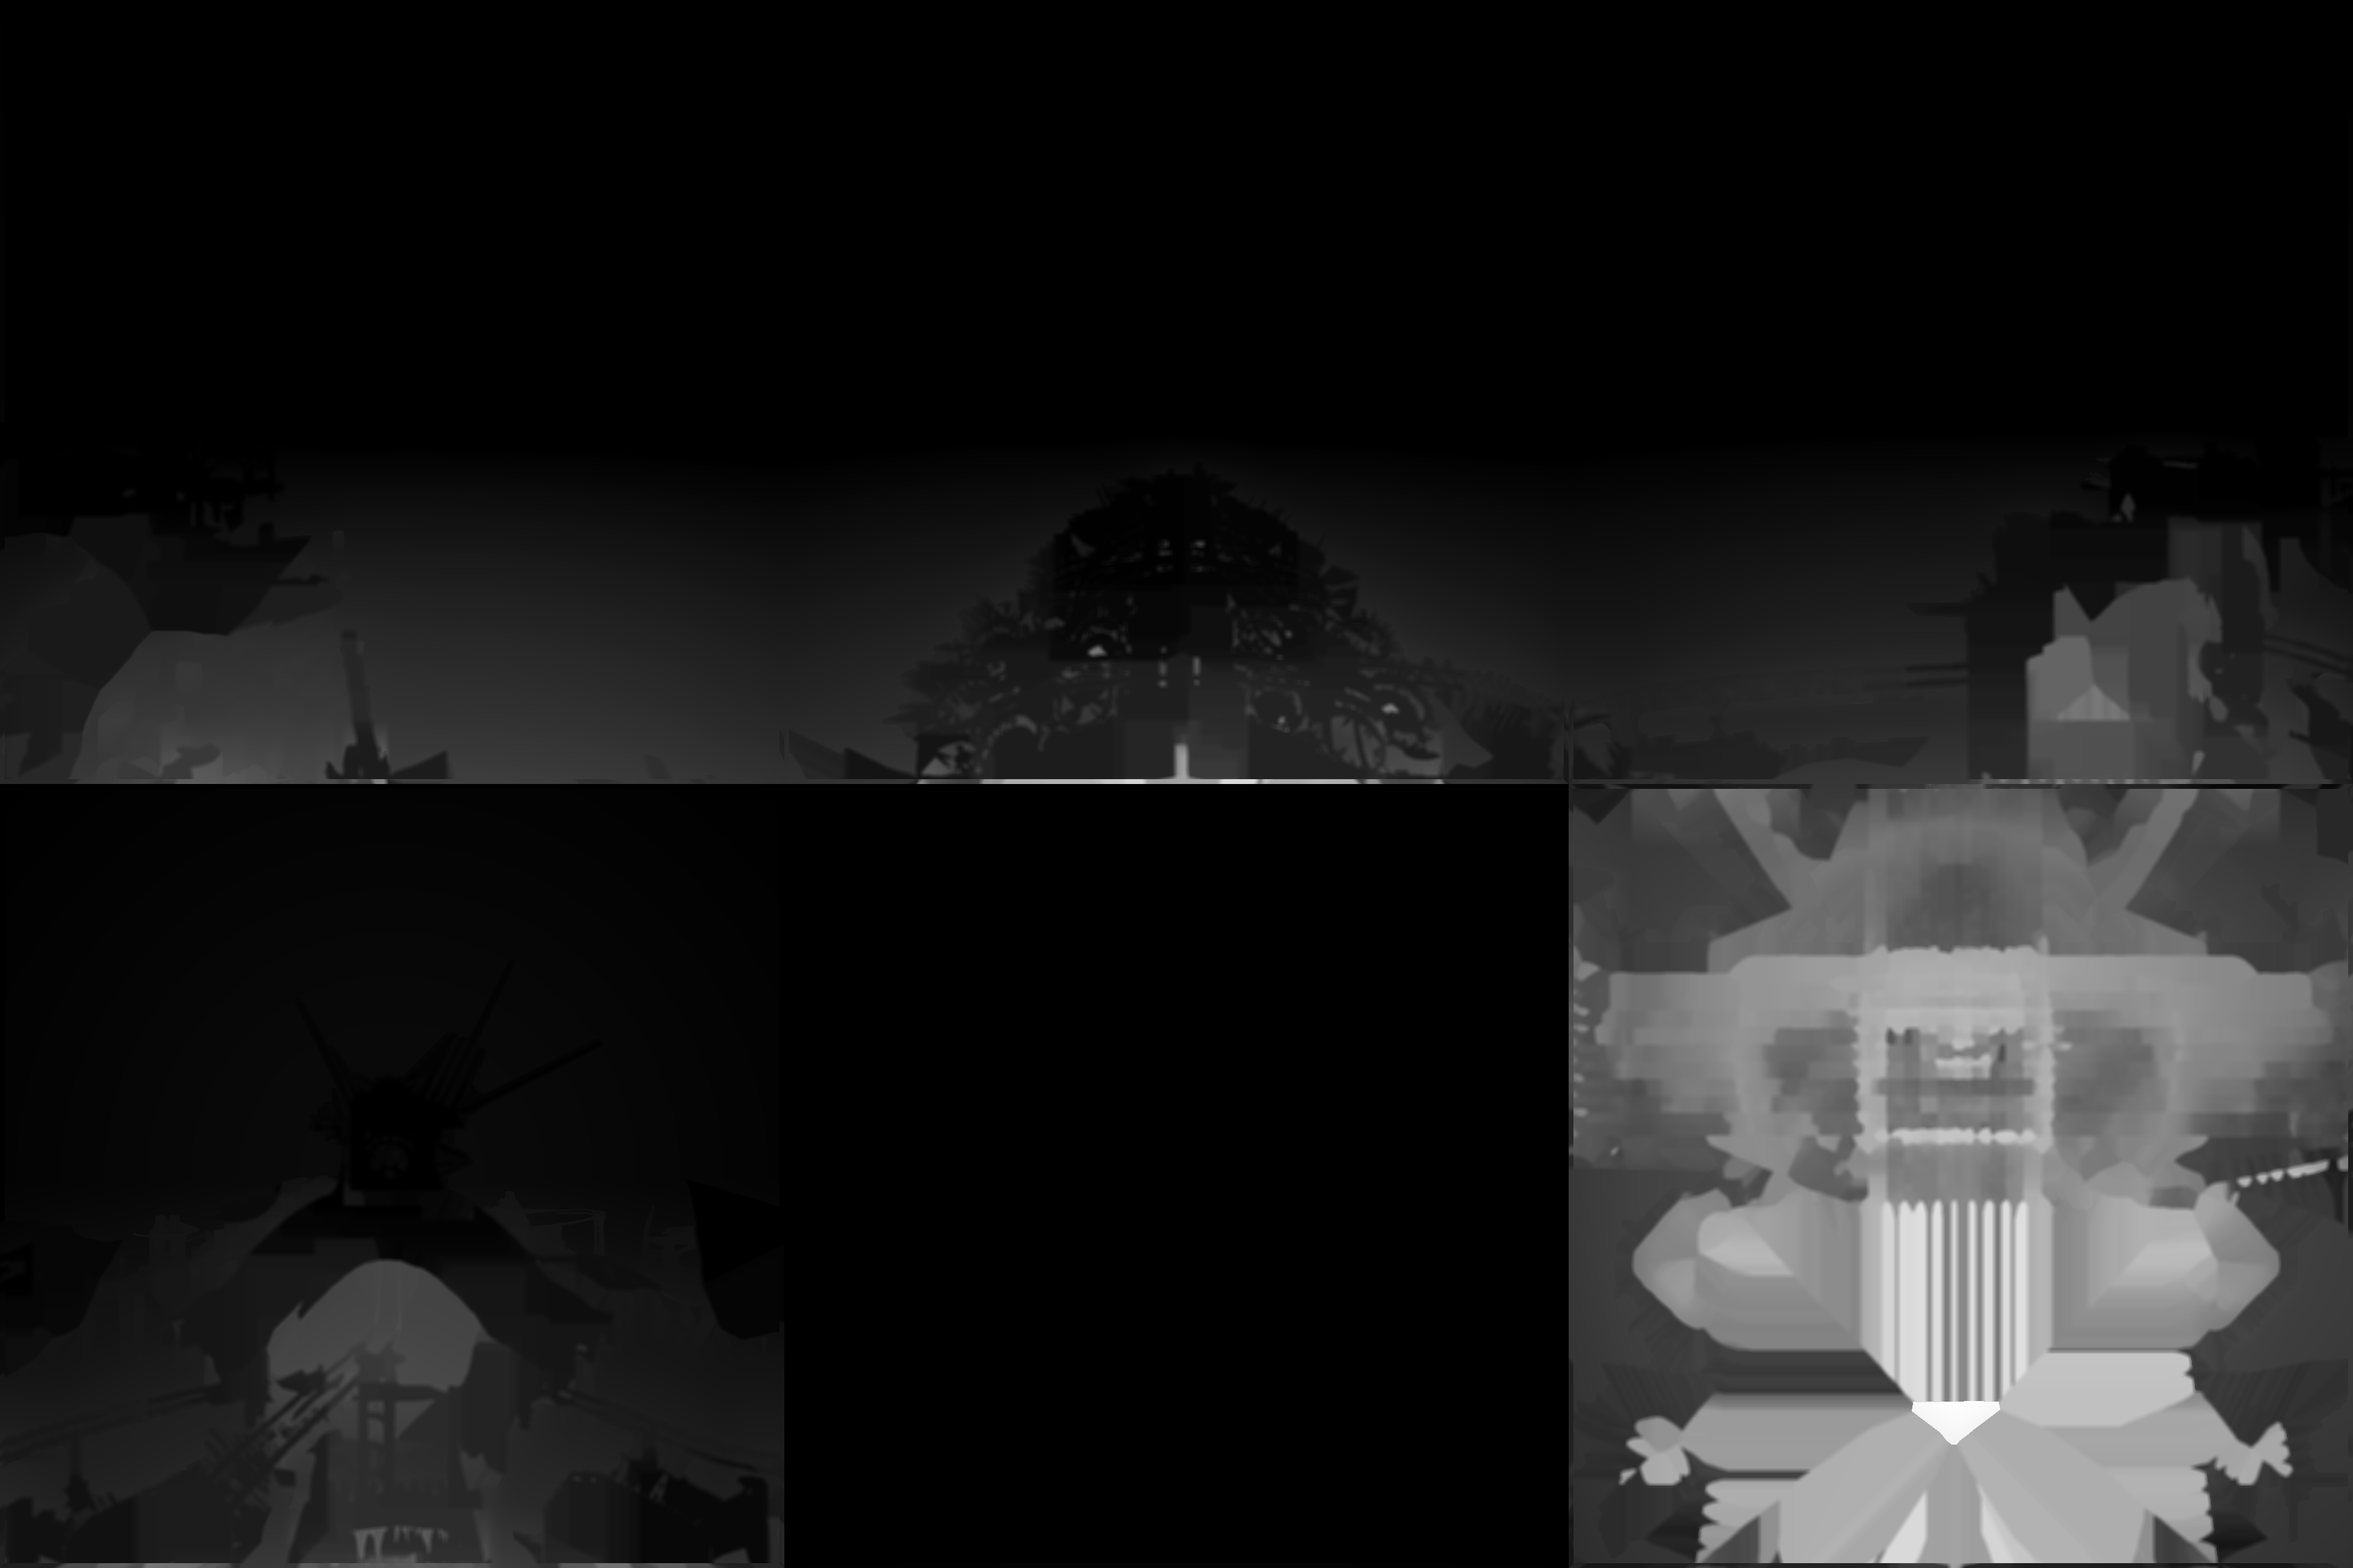
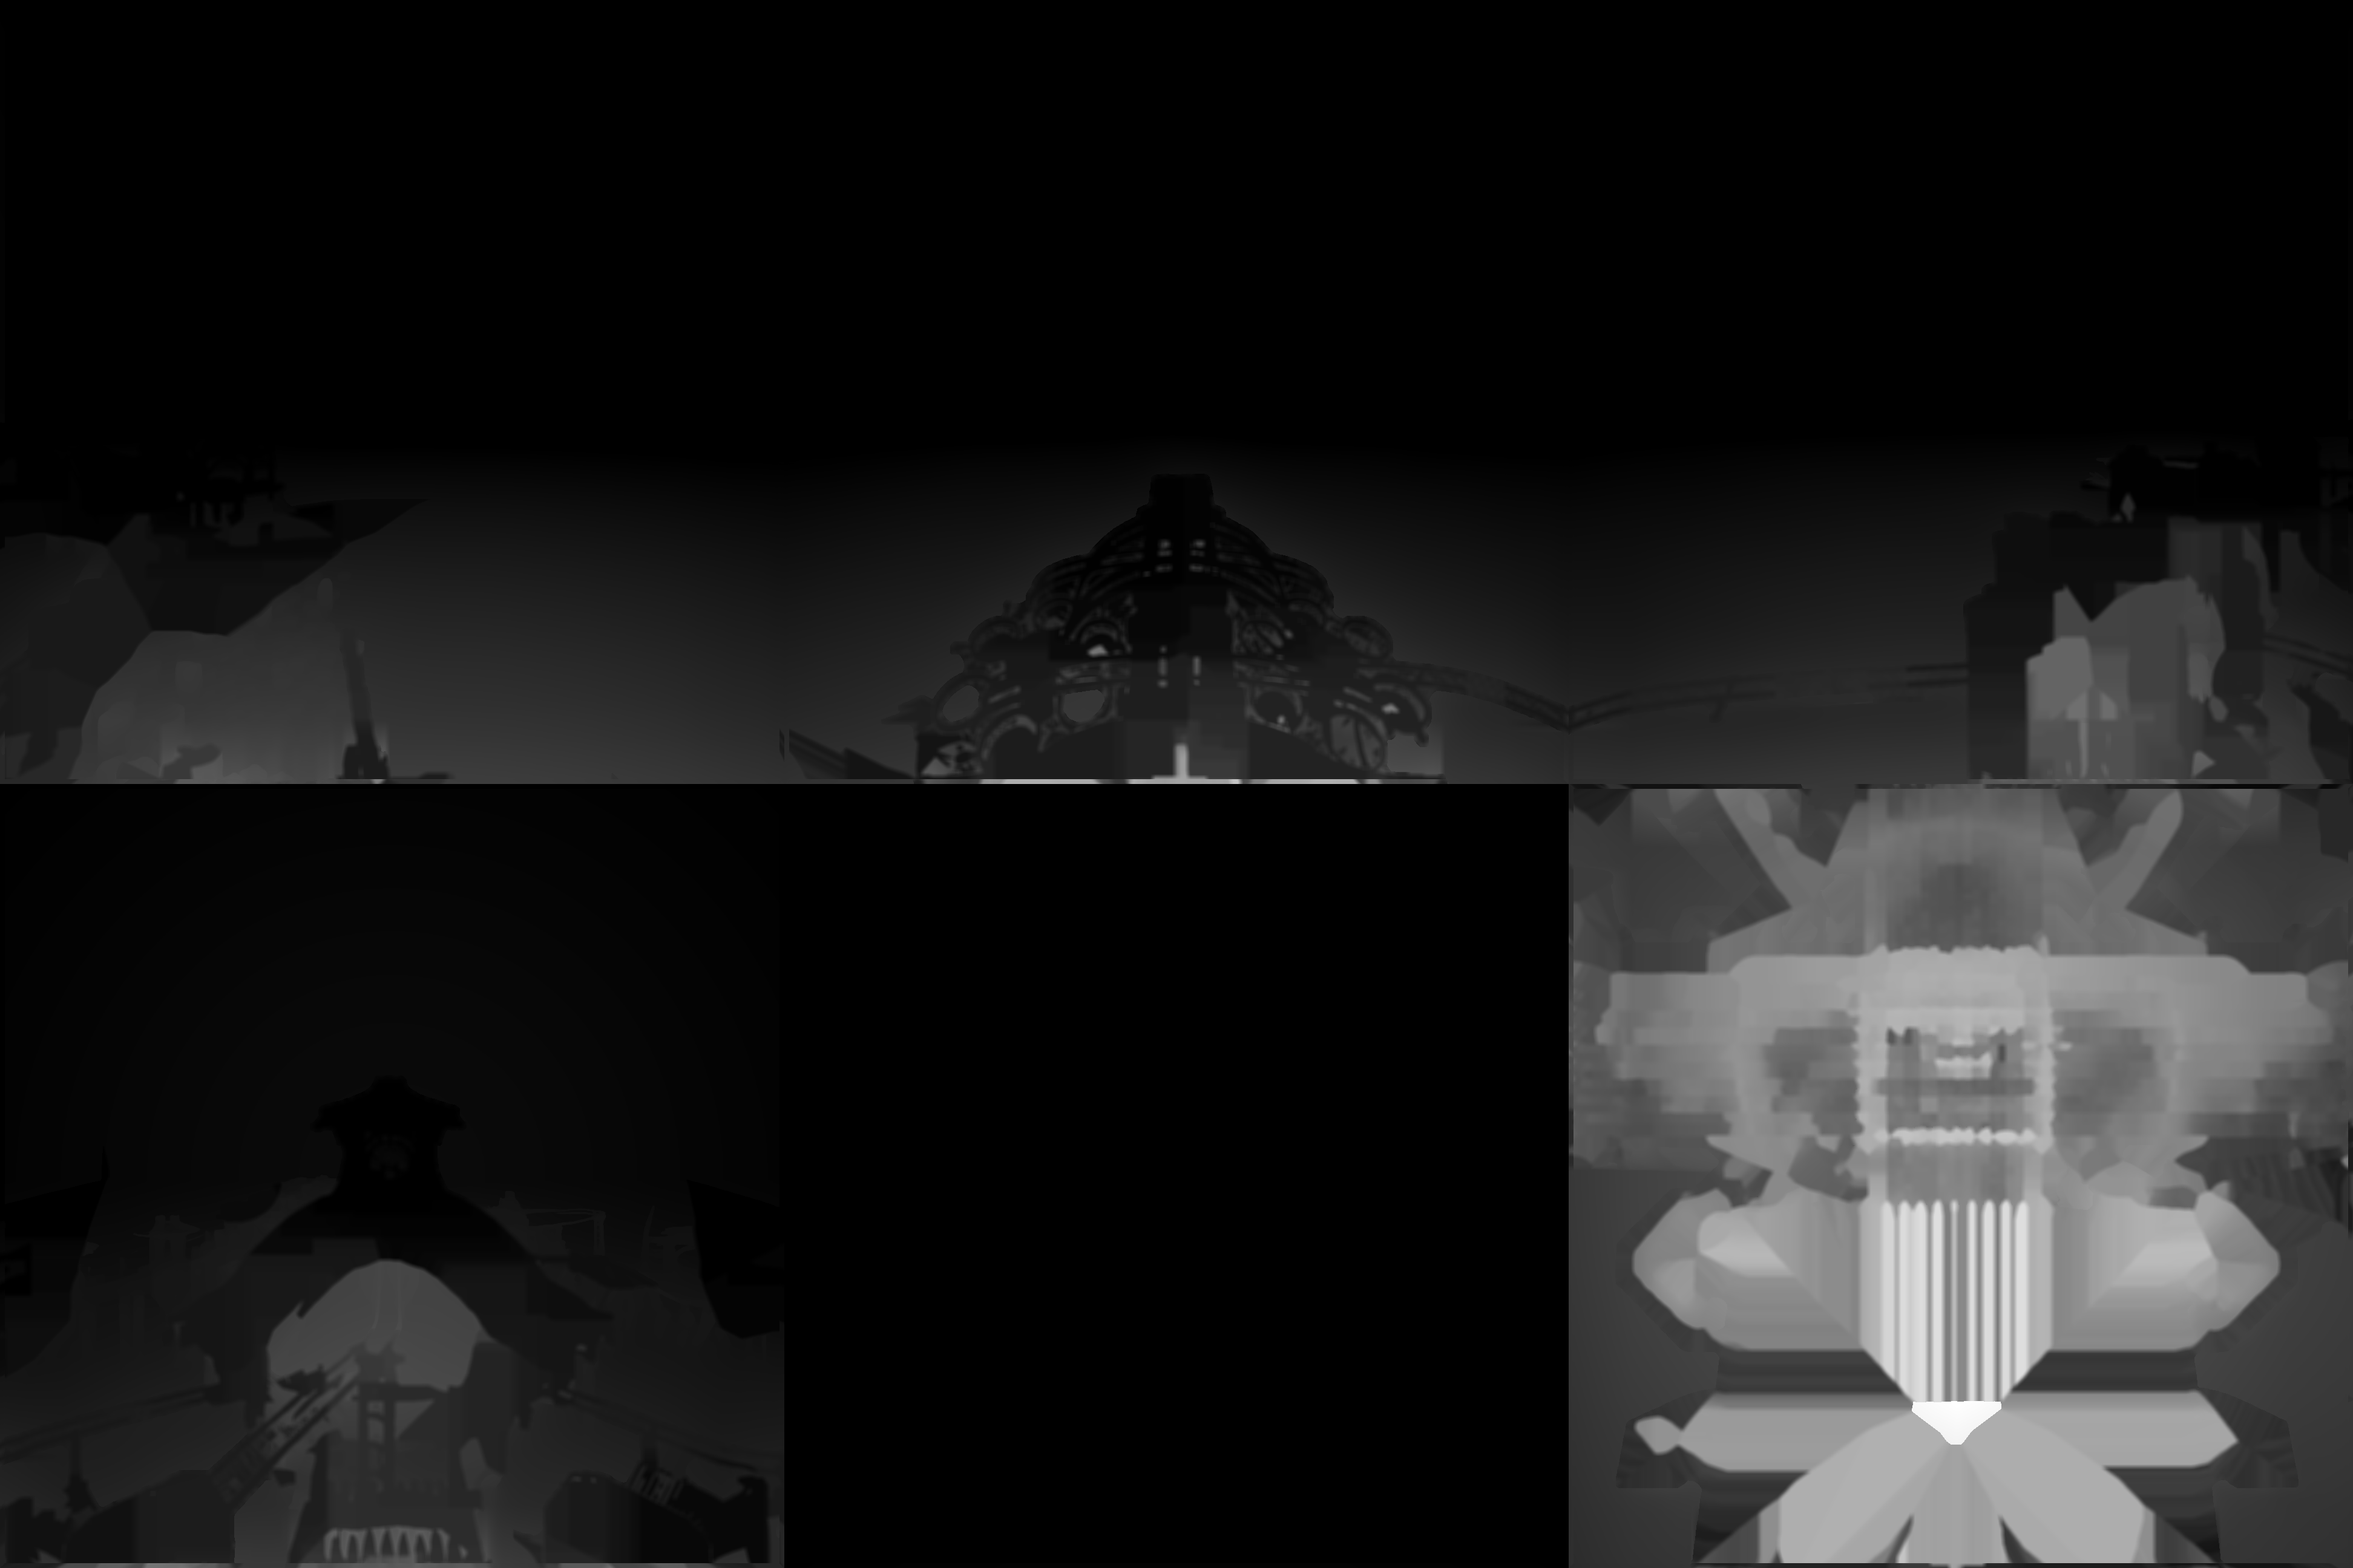
ENSI 16, LEIS 77 and MAWW 101 rebuilt with the two step changes
These are steps found after a 5 px median, and the far side of a step never
being part of the near object. Holes cover 11.1%, 7.3% and 9.1% of the
atlases, against 9.8%, 7.1% and 7.0%; the foreground colour is unchanged. On
MAWW 101 the ring of holes round the console is whole where it was dashed.

Claude-Session: https://claude.ai/code/session_01PGTZsQJKeQ77ippduWGzGV

diff --git a/cube/myst3/README.md b/cube/myst3/README.md
@@ -1013,6 +1013,14 @@ object; a middle layer that belongs to it is still added, for ENSI 16's pod
 frame. The floor's holes are now full strips down every gap: 20.4% of the
 face, against 10.9% in the build before these changes. On the other faces
 the holes change by about a point or less.
+
+ENSI 16, LEIS 77 and MAWW 101 were rebuilt with both changes from their
+files in `layers/nodes/` the same day. Their holes cover 11.1%, 7.3% and 9.1%
+of the atlases, against 9.8%, 7.1% and 7.0%, and their foreground colour is
+unchanged. On MAWW 101 the ring of holes round the console is whole where it
+was dashed, and on ENSI 16 the walkway's railing is outlined along its whole
+length. Voltaic's grate has its own builder (`grate_layers.py`) and is not
+affected.
 This applies to every node built from now on; ENSI 16, LEIS 77 and MAWW 101
 have not been rebuilt with it.
 
